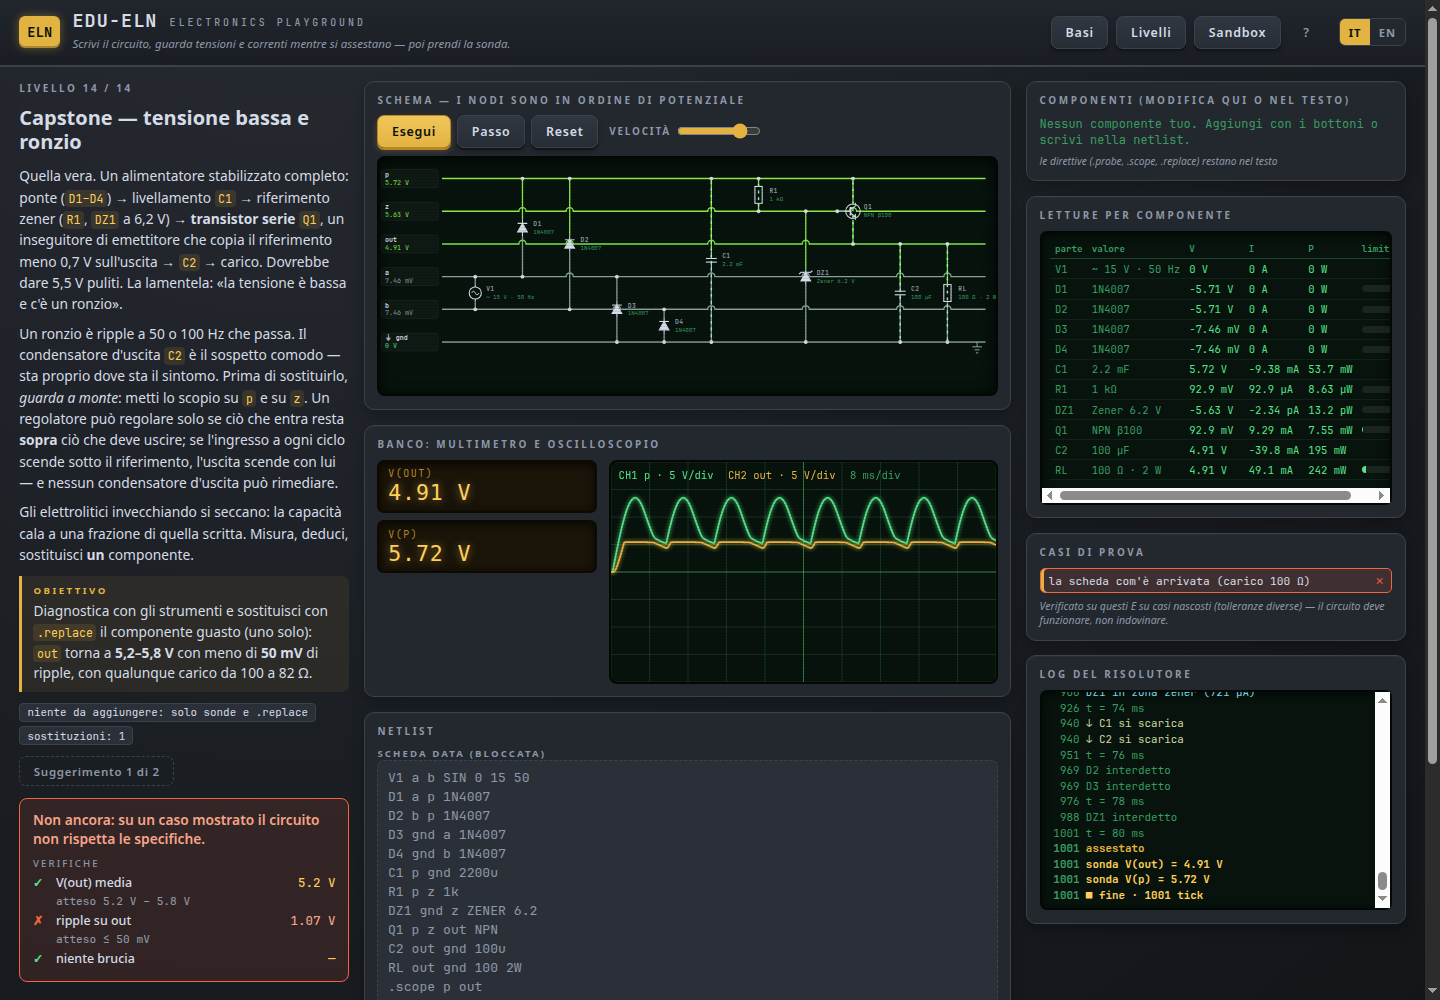
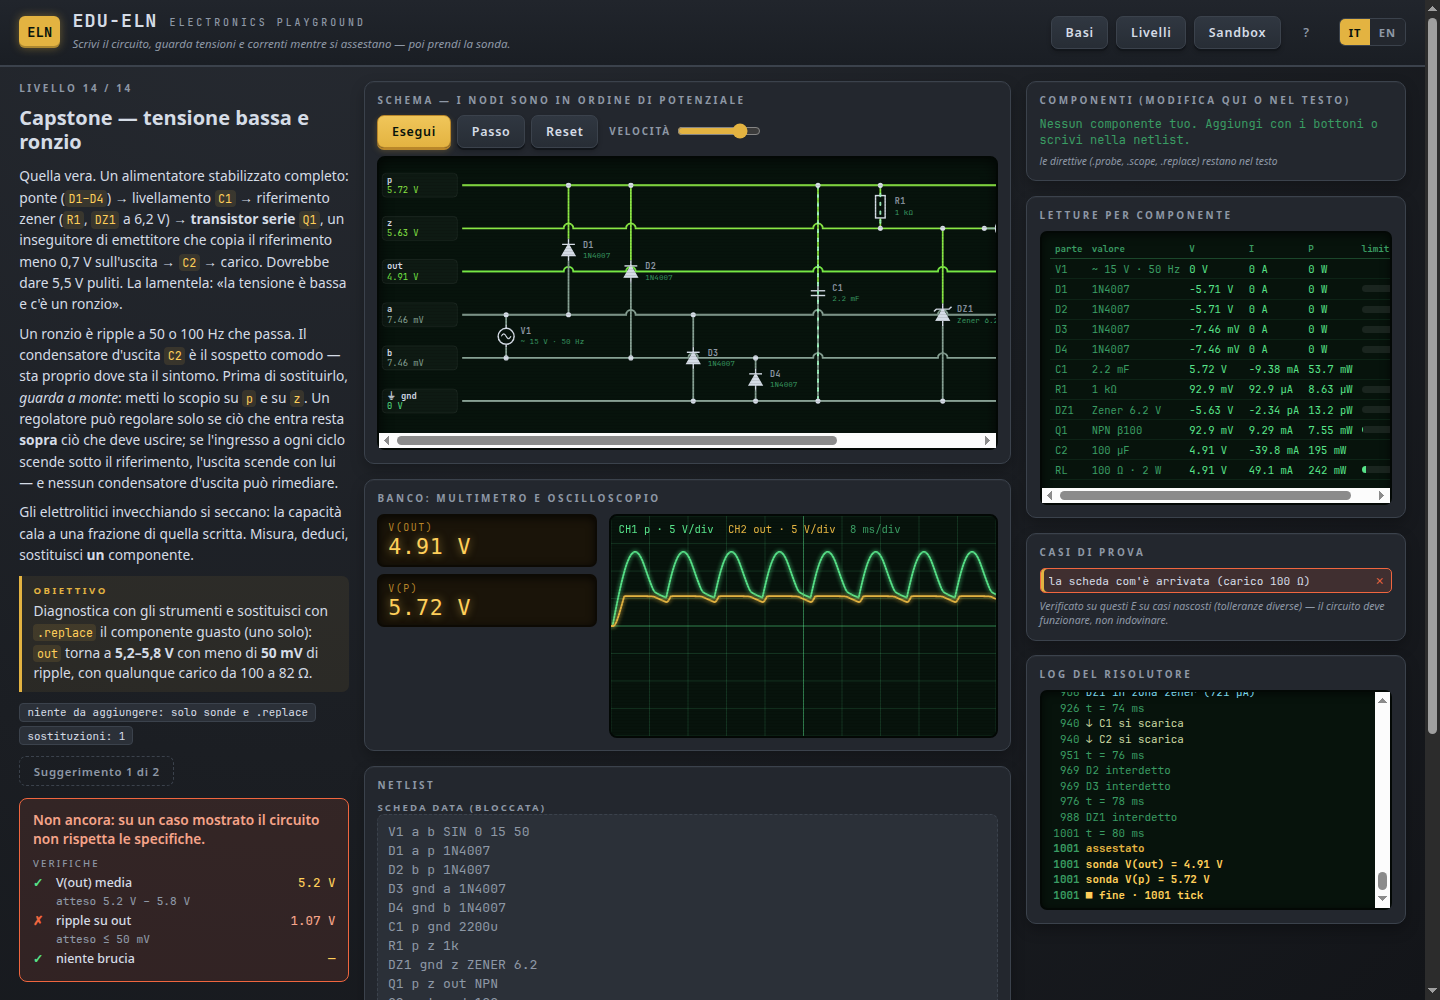
schematic: big boards scroll a little instead of shrinking below legibility; README screenshot

diff --git a/js/ui/schematic.js b/js/ui/schematic.js
@@ -124,7 +124,7 @@ export function createSchematic(container, { onProbeNode, onProbeComp } = {}) {
     // small circuits must not blow up to poster size; big ones scale down to
     // fit and only scroll when they would become illegible
     svg.style.maxWidth = `${Math.round(W * 1.6)}px`;
-    if (cols > 14) svg.style.minWidth = `${Math.round(W * 0.8)}px`;
+    if (cols > 8) svg.style.minWidth = `${Math.round(W * 0.8)}px`;
     container.appendChild(svg);
     railY = new Map(rank.map((n, i) => [n, TOP + i * ROW_H]));
     const x0 = LABEL_W + 24;
